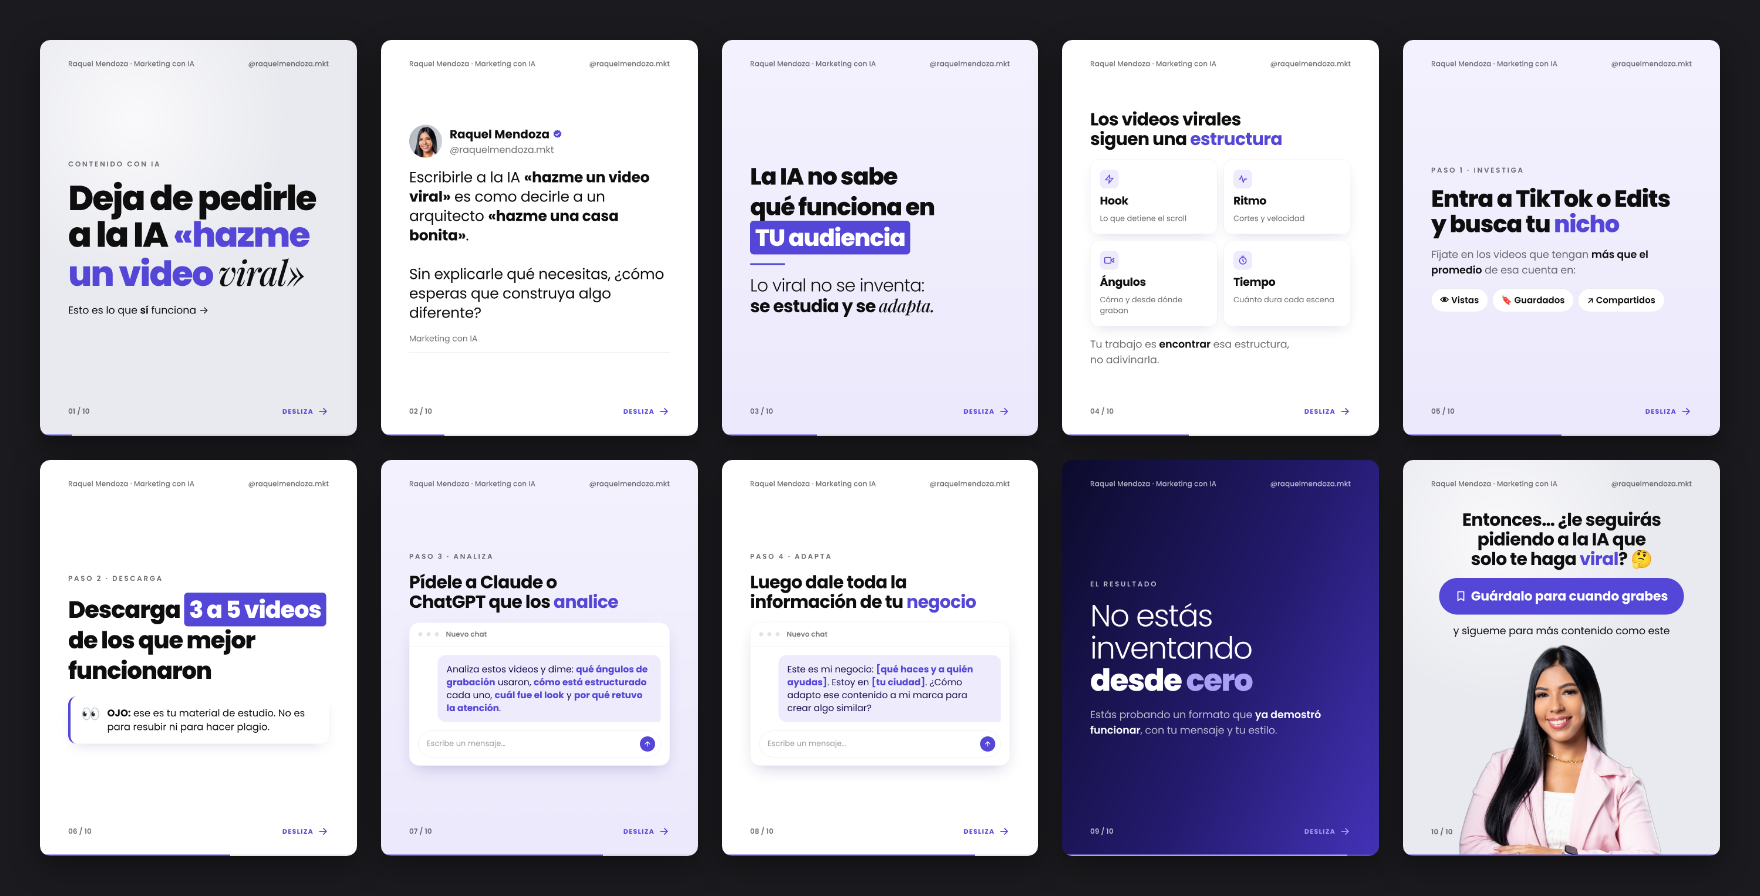
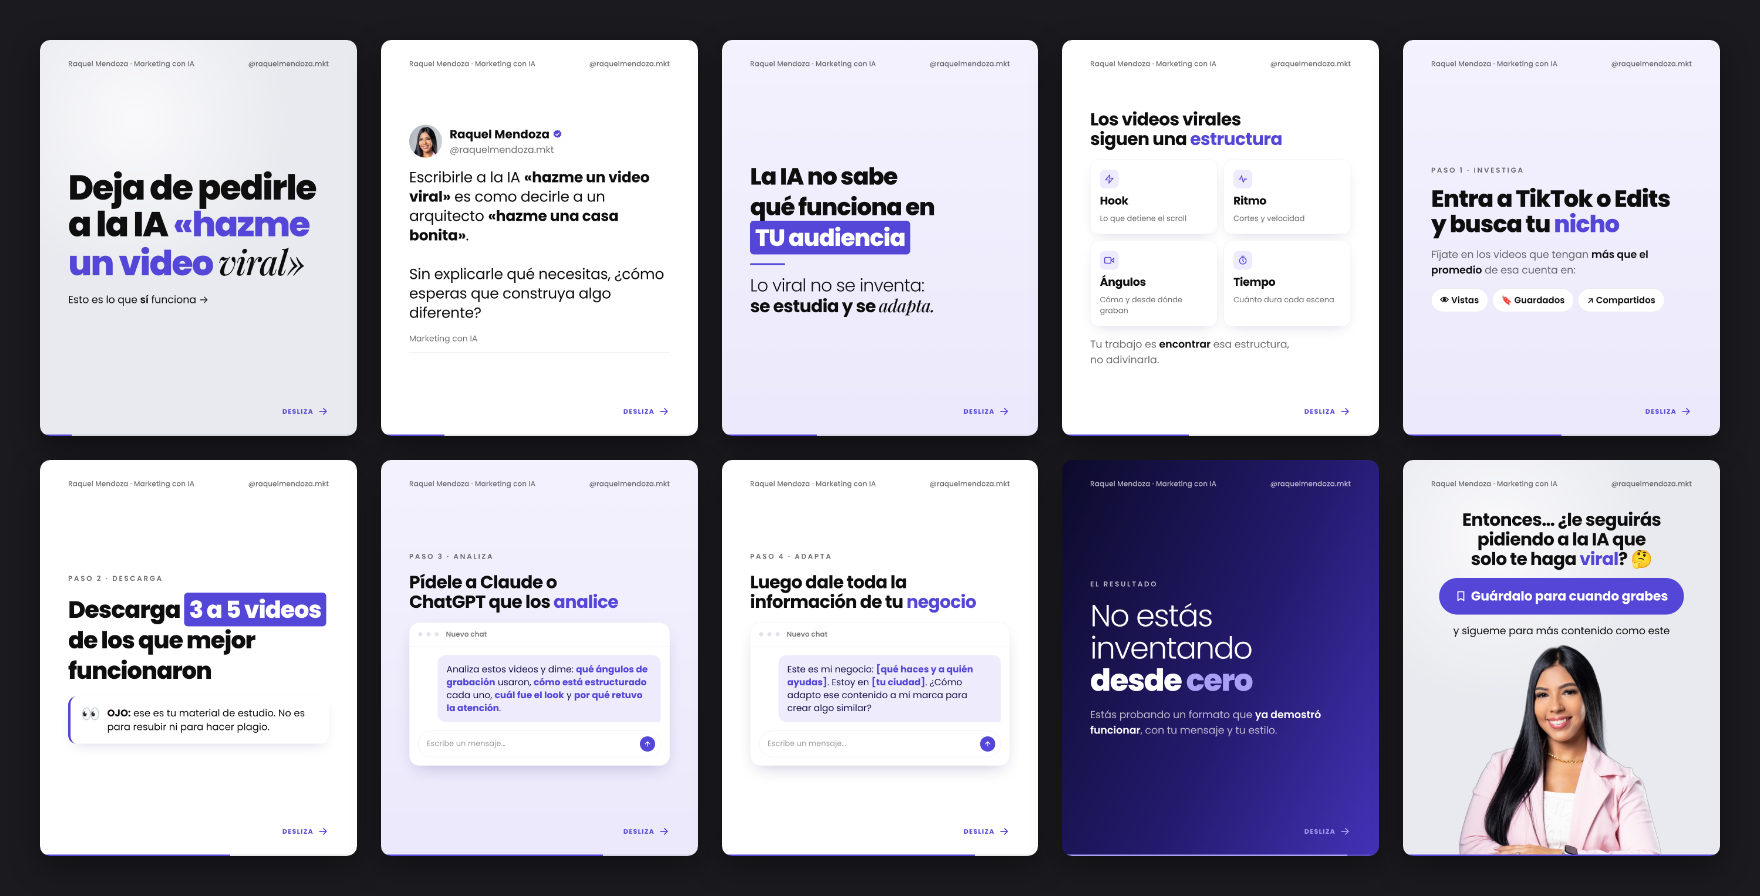
Carrusel video viral: sin etiqueta en la portada y sin numeración de slides
Añade la opción data-counter="off" en carrusel.js para ocultar la numeración.

Claude-Session: https://claude.ai/code/session_01Ej8Qu3LQLaQzy4gu2zPZyZ

Changed region(s): [[0.0312, 0.1875, 0.1875, 0.375]]

diff --git a/carruseles/carrusel.js b/carruseles/carrusel.js
@@ -6,6 +6,7 @@
      data-progress="off"   oculta la barra de progreso inferior
    Opciones del carrusel (en <body>):
      data-handle="@raquelmendoza.mkt"   data-name="Raquel Mendoza"
+     data-counter="off"  oculta la numeración (01 / 10)
    ================================================================== */
 (function () {
   const params = new URLSearchParams(location.search);
@@ -15,6 +16,7 @@
   const body = document.body;
   const handle = body.dataset.handle || '@raquelmendoza.mkt';
   const name = body.dataset.name || 'Raquel Mendoza';
+  const showCounter = body.dataset.counter !== 'off';
   const slides = [...document.querySelectorAll('.slide')];
   const total = slides.length;
   const pad = (n) => String(n).padStart(2, '0');
@@ -26,7 +28,7 @@
     if (s.dataset.chrome !== 'off') {
       s.insertAdjacentHTML('beforeend',
         `<div class="chrome-top"><div class="brand"><span class="mono">RM</span>${name}</div><div>${handle}</div></div>` +
-        `<div class="chrome-bottom"><div class="counter">${pad(n)} / ${pad(total)}</div>` +
+        `<div class="chrome-bottom"><div class="counter">${showCounter ? pad(n) + ' / ' + pad(total) : ''}</div>` +
         (last || s.dataset.swipe === 'off' ? '<div></div>' : `<div class="swipe">Desliza ${arrow}</div>`) +
         `</div>`);
     }

diff --git a/carruseles/proyectos/03-ia-video-viral/carrusel.html b/carruseles/proyectos/03-ia-video-viral/carrusel.html
@@ -14,13 +14,12 @@
   Texto: el de Raquel (slides 2-10). Portada escrita por el diseñador.
 -->
 </head>
-<body class="clean" data-handle="@raquelmendoza.mkt" data-name="Raquel Mendoza · Marketing con IA">
+<body class="clean" data-counter="off" data-handle="@raquelmendoza.mkt" data-name="Raquel Mendoza · Marketing con IA">
 <main class="deck">
 
   <!-- 01 · PORTADA -->
   <section class="slide t-mist">
     <div class="content">
-      <span class="kicker">Contenido con IA</span>
       <h1 class="hook" style="font-size:118px">Deja de pedirle a la IA <span class="c">«hazme un video</span> <em class="serif">viral»</em></h1>
       <p class="body" style="color:var(--fg)">Esto es lo que <b>sí</b> funciona →</p>
     </div>
